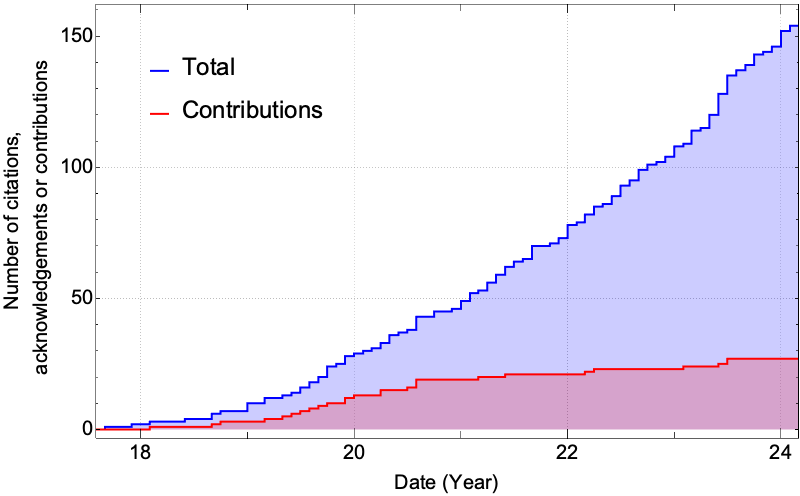
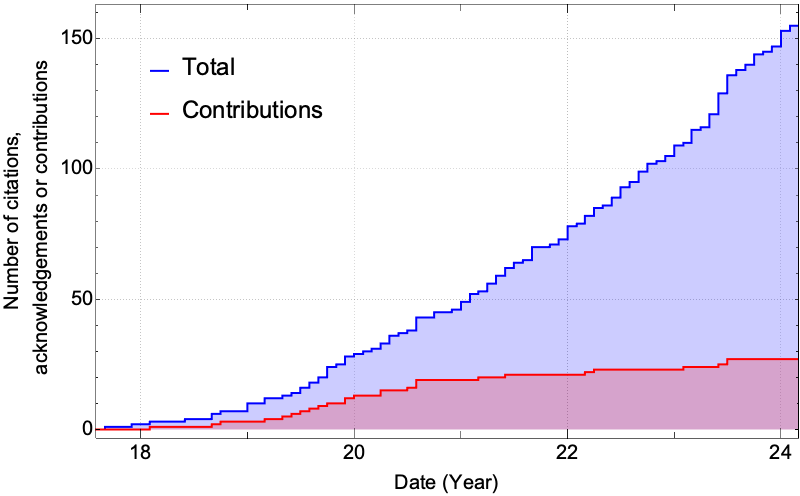
add paper the cites the Toolkit. Up to 155 now.

diff --git a/users.md b/users.md
@@ -19,6 +19,8 @@ The graph below show the accumulated citations to the Toolkit over time. The blu
 
 Below is a list of research papers that have used or extended the Toolkit. Papers that have contributed code or data to the Toolkit have a (*) after them.
 
+155\. "Conserved currents for Kerr and orthogonality of quasinormal modes", Stephen R. Green, Stefan Hollands, Laura Sberna, Vahid Toomani, Peter Zimmerman, [arXiv:2210.15935](https://arxiv.org/abs/2210.15935)
+
 154\. "Relativistic aerodynamics of spinning black holes", Conor Dyson, Jaime Redondo-Yuste, Maarten van de Meent, Vitor Cardoso, [arXiv:2402.07981](https://arxiv.org/abs/2402.07981)
 
 153\. "A Survey of Four Precessing Waveform Models for Binary Black Hole Systems", Jake Mac Uilliam, Sarp Akcay, Jonathan E. Thompson, [arXiv:2402.06781](https://arxiv.org/abs/2402.06781)
